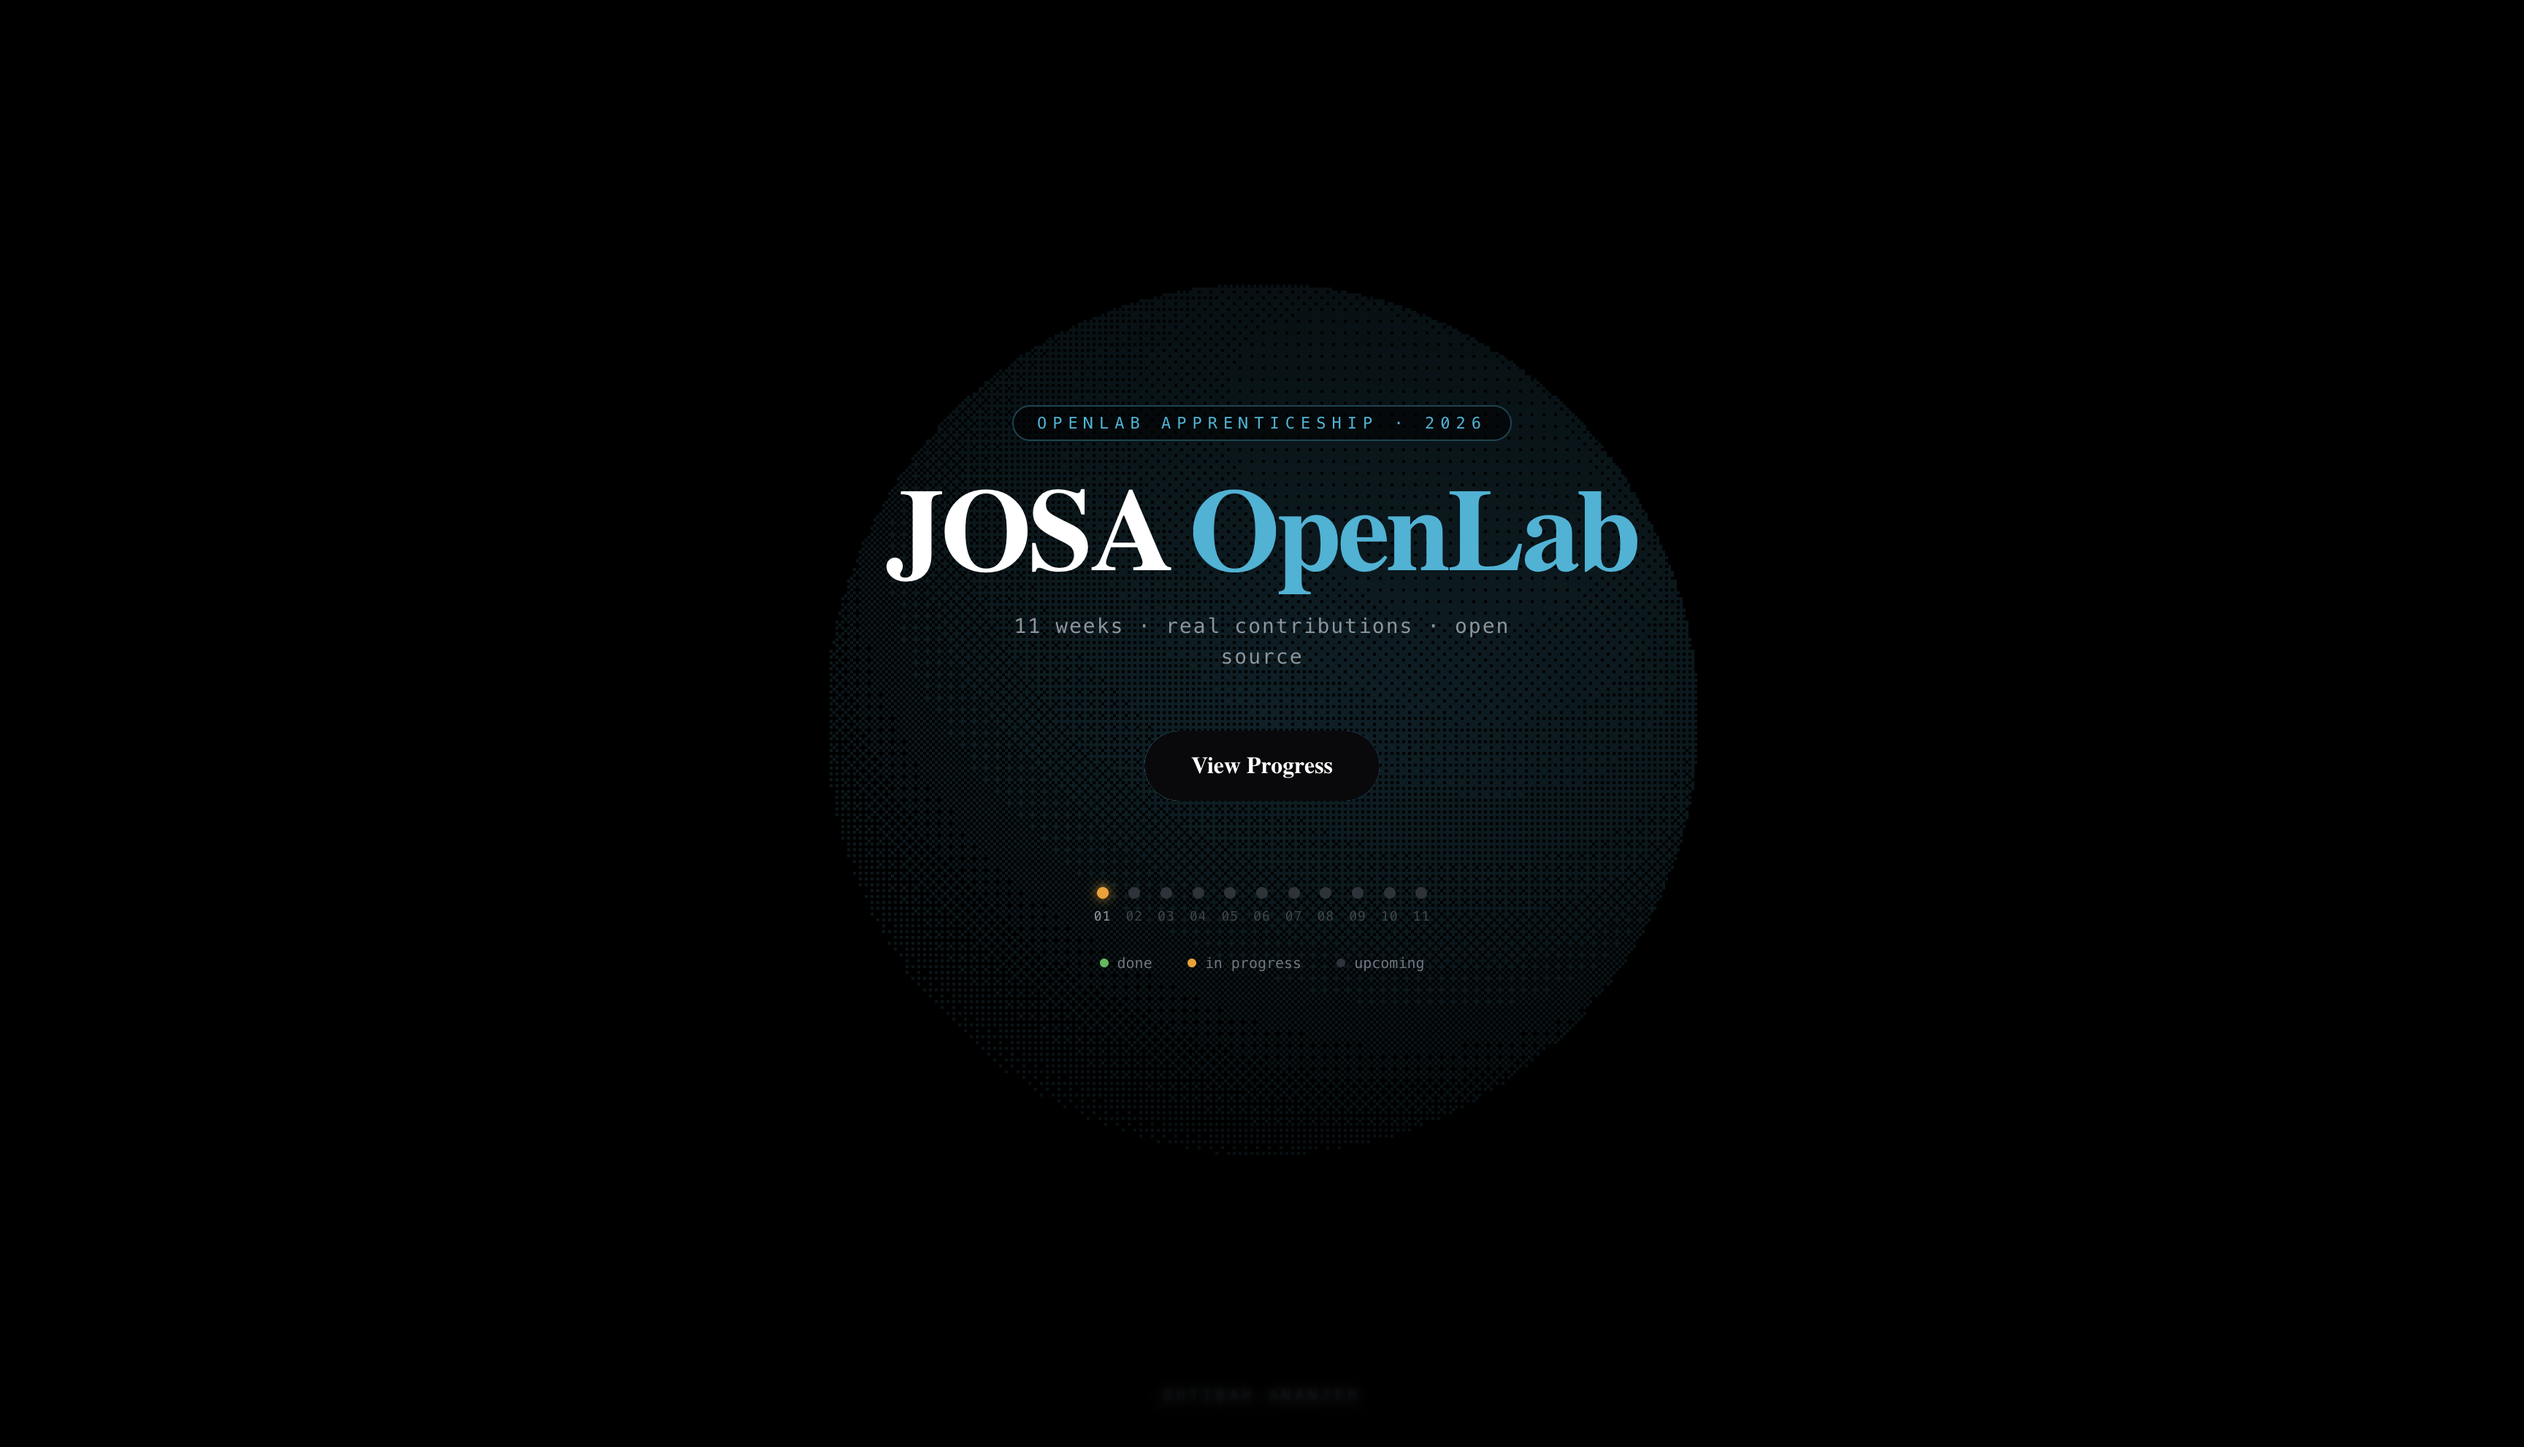
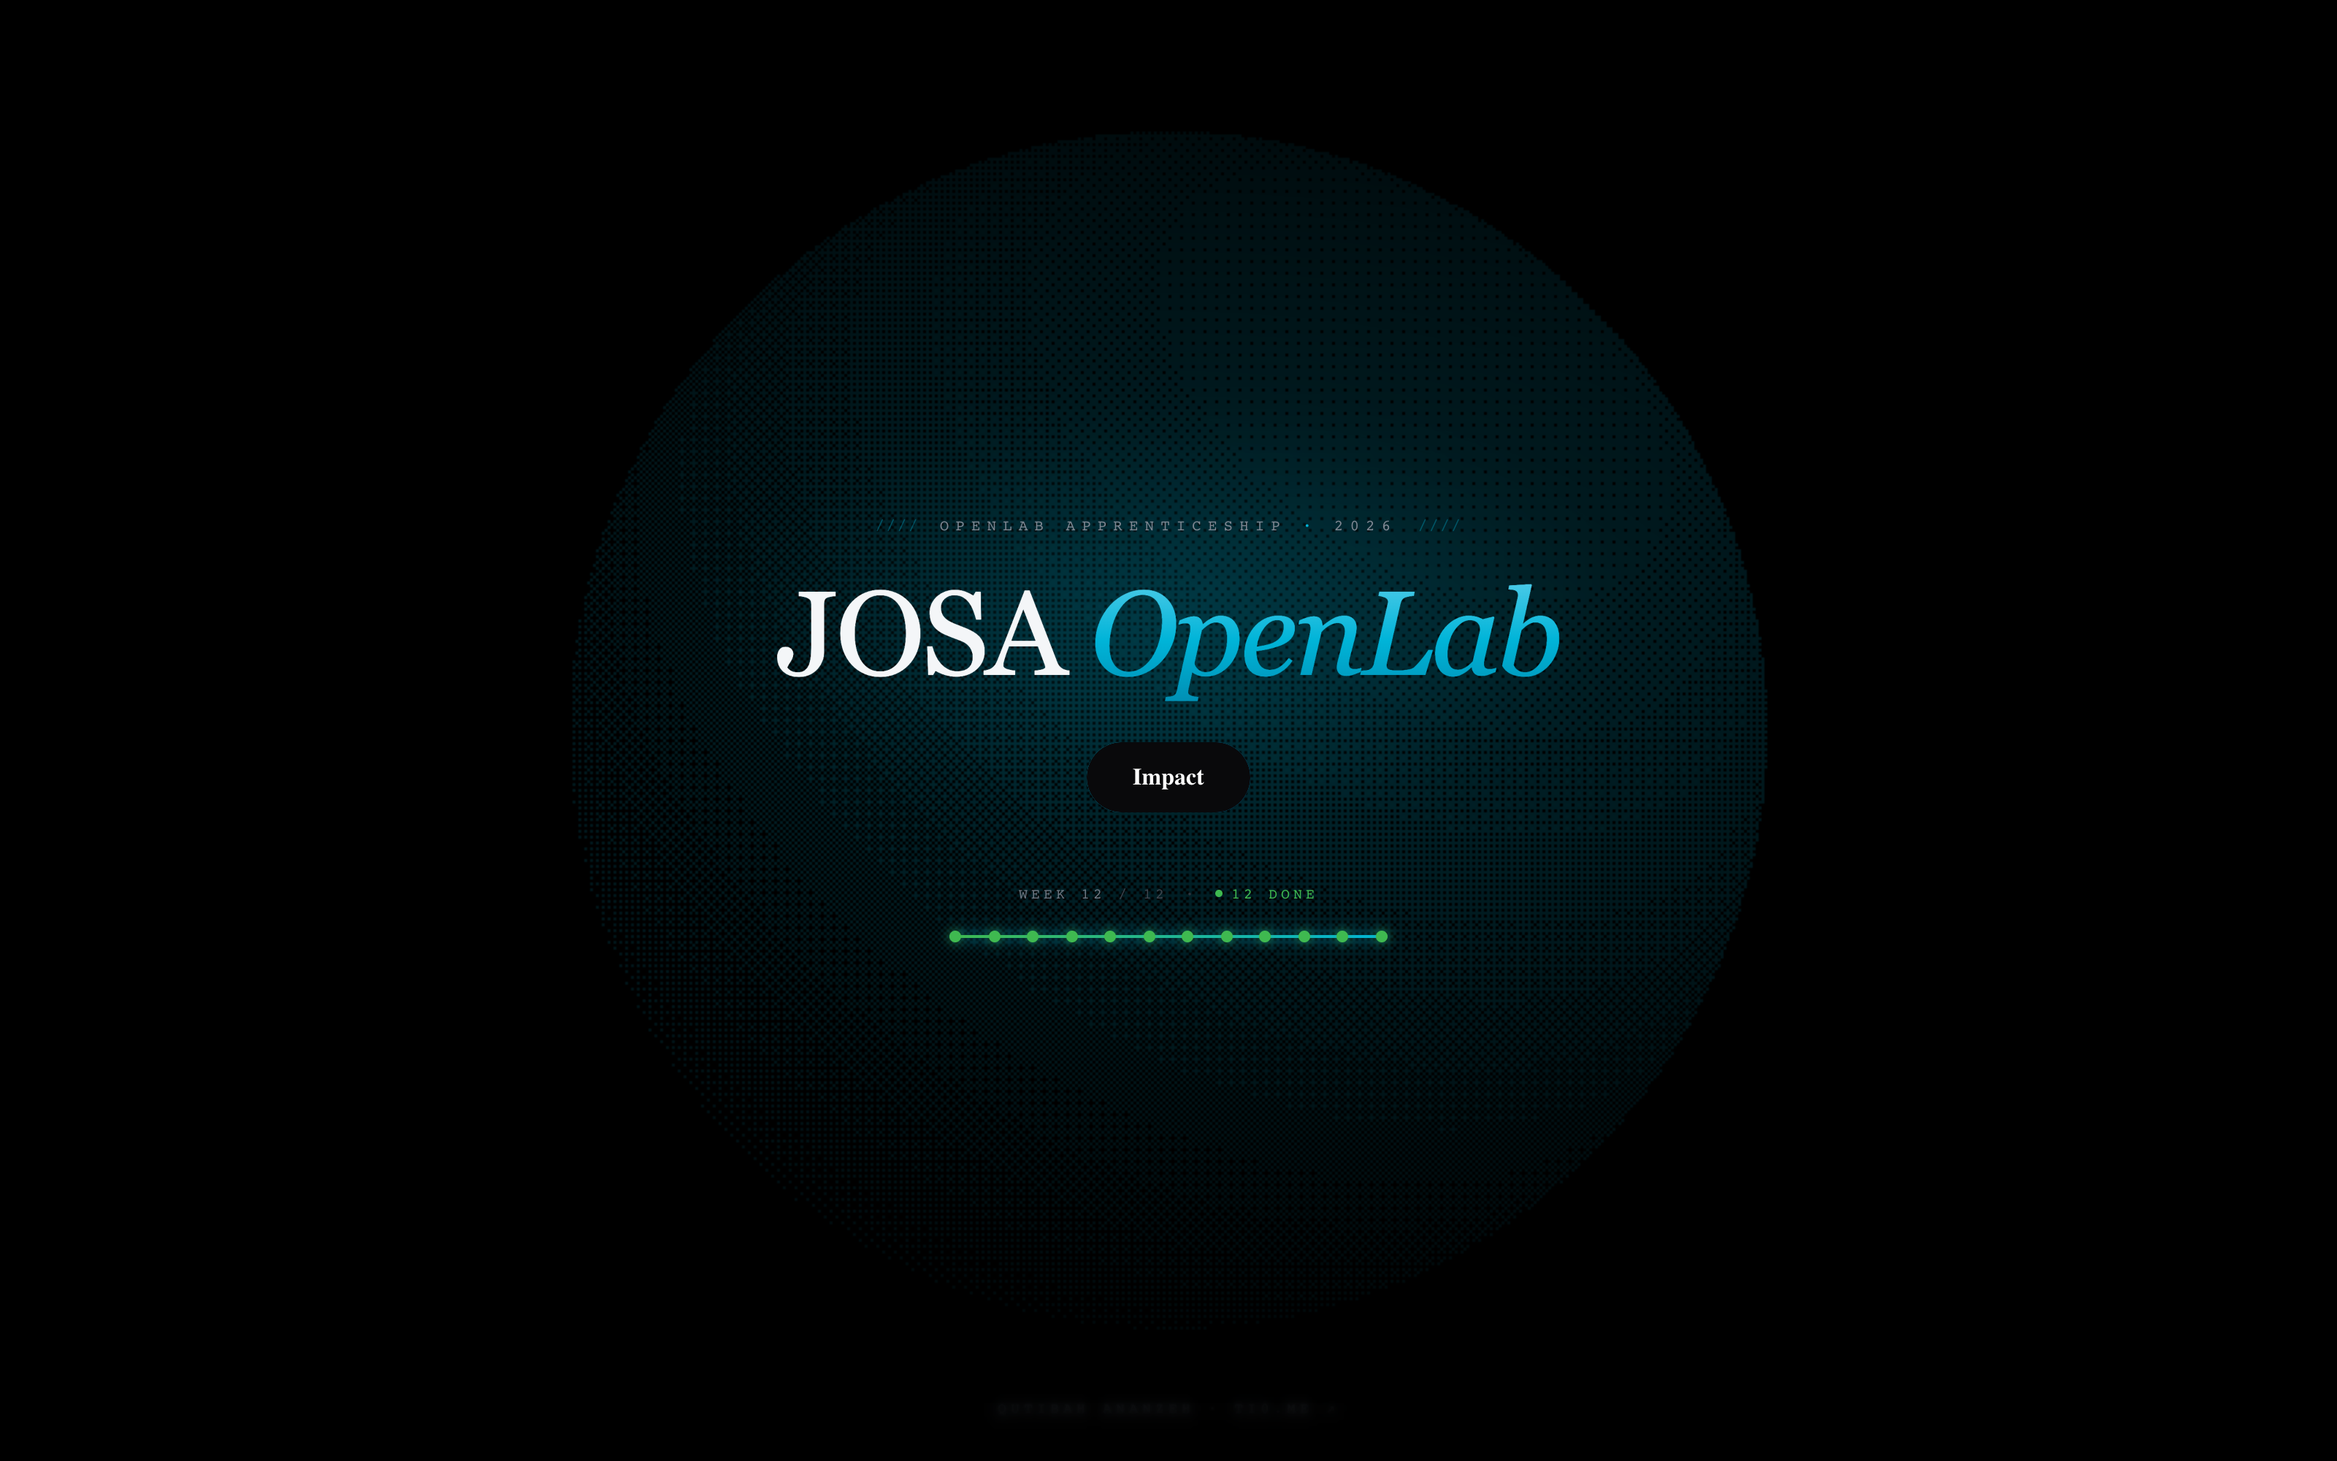
README: strip it back to the site link and a screenshot
Drops the weekly-log tree, the month table, the repo layout and the build
instructions. The Month*/ markdown is still there for anyone who wants to
read the weeks in the repo, it just does not need an index in front of it.

Screenshot refreshed to the current hero: one Impact entrance, week 12.

Changed region(s): [[0.25, 0.2154, 0.75, 0.7386]]

diff --git a/README.md b/README.md
@@ -6,55 +6,10 @@ My progress through the JOSA OpenLab apprenticeship, week by week.
   <a href="https://josa-openlab.github.io/Ti-progress">
     <img alt="Visit Website" src="https://img.shields.io/badge/Visit%20Website-%E2%86%92-0ea5e9?style=for-the-badge&labelColor=0a0a0a" />
   </a>
-  <a href="PROGRESS.md">
-    <img alt="Read in repo" src="https://img.shields.io/badge/Read%20in%20repo-Month1%2F%20%E2%86%92-22c55e?style=for-the-badge&labelColor=0a0a0a" />
-  </a>
 </p>
 
-## Weekly log
-
-Prefer reading here instead of the site? Every week is a markdown file, grouped by month:
-
-```
-Month1/   week-01.md  week-02.md  week-03.md
-Month2/   week-04.md  week-05.md  week-06.md  week-07.md
-Month3/   week-08.md  week-09.md
-Month4/   week-10.md
-Month5/   week-11.md  week-12.md
-```
-
-| Month | Weeks |
-|---|---|
-| [Month1](Month1/) · May 2026 | [01](Month1/week-01.md) Git Internals & Modern Workflow · [02](Month1/week-02.md) PR Etiquette · [03](Month1/week-03.md) Issue Triage |
-| [Month2](Month2/) · June 2026 | [04](Month2/week-04.md) Code Review · [05](Month2/week-05.md) Testing & CI/CD · [06](Month2/week-06.md) Docs as Code · [07](Month2/week-07.md) Security |
-| [Month3](Month3/) · July 2026 | [08](Month3/week-08.md) Performance & Profiling · [09](Month3/week-09.md) Own OSS Project |
-| [Month4](Month4/) · August 2026 | [10](Month4/week-10.md) Project Research & Ideation |
-| [Month5](Month5/) · September 2026 | [11](Month5/week-11.md) Open-Source Contribution Sprint · [12](Month5/week-12.md) Proving It Without the Hardware |
-
-Full index: [PROGRESS.md](PROGRESS.md)
-
-<table>
-  <tr>
-    <td><img src="site/public/hero-screenshot.png" alt="Hero page" /></td>
-    <td><img src="site/public/app-screenshot.png" alt="Dashboard" /></td>
-  </tr>
-</table>
-
-## Repo layout
-
-```
-Month1..Month5/   the weekly log, one markdown file per week
-PROGRESS.md       full index of every week
-site/             the Next.js site behind josa-openlab.github.io/Ti-progress
-```
-
-Both views come from the same source, `site/data/weeks/*.json`. Edit that, then:
-
-```bash
-cd site
-npm run docs    # regenerate Month*/ and PROGRESS.md
-npm run build   # build the site into site/out
-```
-
-CI blocks the deploy if `Month*/` is out of date with the JSON, so the page and the
-repo can never disagree.
+<p align="center">
+  <a href="https://josa-openlab.github.io/Ti-progress">
+    <img src="site/public/hero-screenshot.png" alt="JOSA OpenLab" />
+  </a>
+</p>
